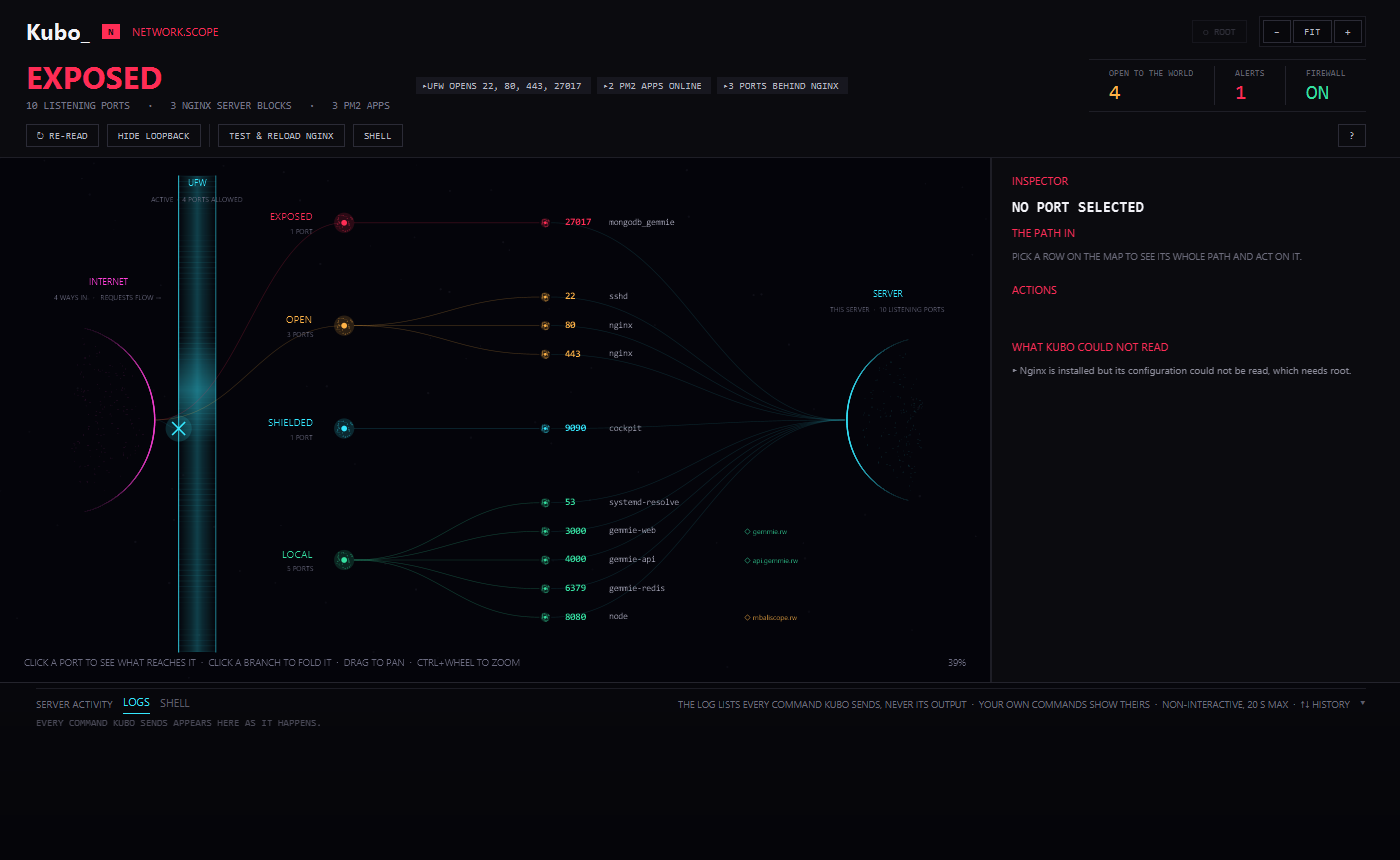
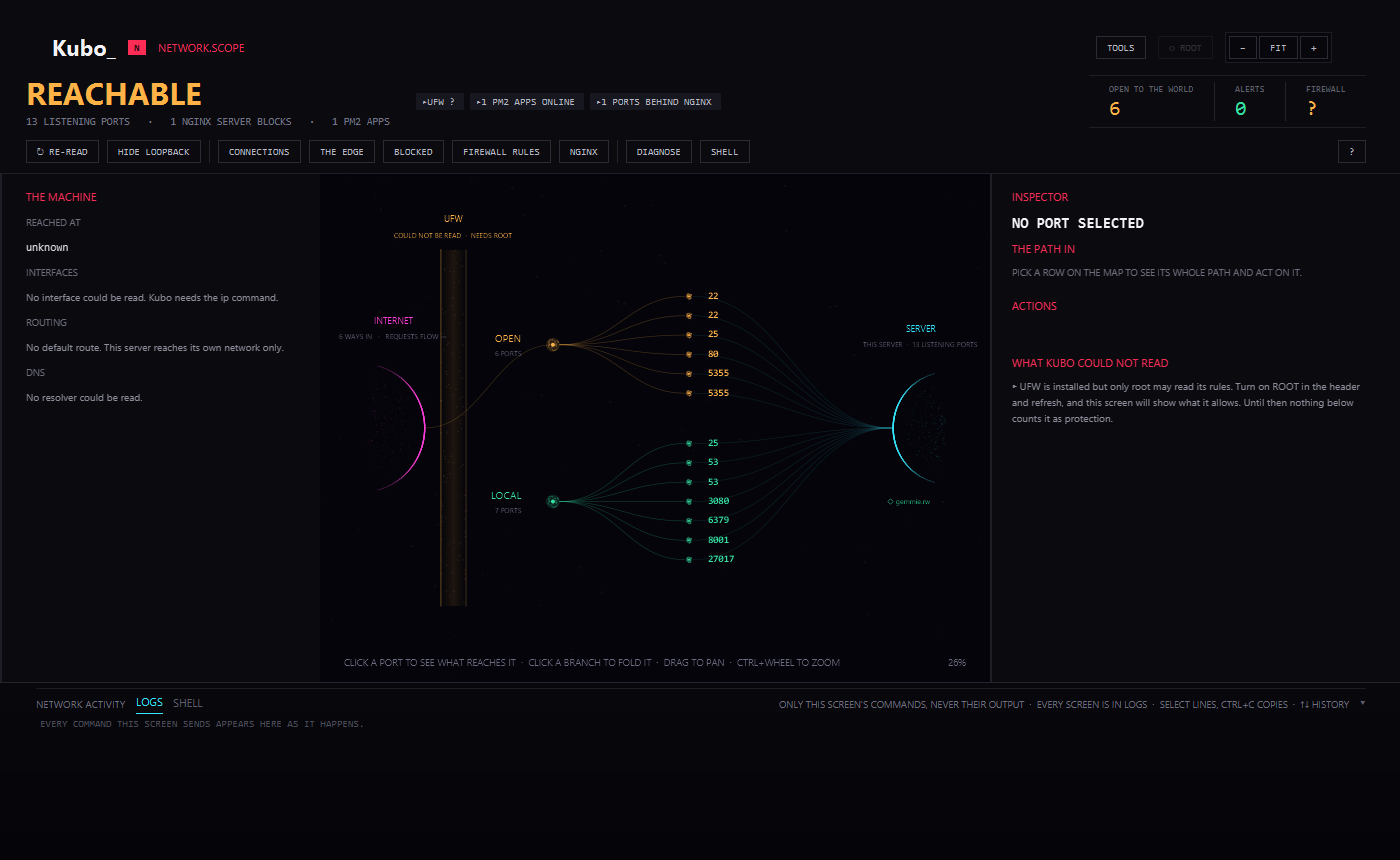
Nginx, the firewall, and everything the server has shut out

diff --git a/README.md b/README.md
@@ -53,6 +53,40 @@ Ports branch off by how far they can truly be reached — exposed, open, shielde
 so an open database screams and a loopback-only port stays quiet. Reads whichever firewall you run:
 **UFW, firewalld, nftables or iptables**.
 
+**UFW is written as well as read.** The rules are grouped the way a person would say them, v4 and v6
+together. Open a port to one address rather than to everyone, close one, switch the whole firewall on
+or off. Removing a rule that would cut your own SSH session asks you to type the port first, and
+switching a firewall on that has nothing allowing SSH asks the same question UFW asks itself — the one
+a session with no terminal cannot answer.
+
+### Nginx — how a request actually gets there
+<img src="images/nginx.png" alt="Kubo — nginx" width="90%">
+
+Its own screen, not a panel. The sites on the left; for the one you pick, the path a request takes drawn
+as a chain that goes red at the step that breaks: the domain, the server block, the certificate, the
+rule, the port it ends on. Its access and error logs, the file it lives in, the upstream pool it
+forwards to and which members are answering.
+
+A new site is written from a form with presets for Node, a single-page app, static files or PHP. Every
+field is checked before anything is sent, the file is shown exactly as it will be written, and it goes
+out through a temporary file and a move.
+
+Serving the web with **Caddy, Apache, Traefik or HAProxy** instead? Kubo names what it finds, says where
+its configuration lives and gives you the command to check it, rather than reporting that there is no
+Nginx — which reads as no web server at all.
+
+### Blocked — everything the server has shut out
+<img src="images/blocked.png" alt="Kubo — blocked addresses" width="90%">
+
+Two hundred addresses each banned once is a machine doing its job. Five banned eleven times each is
+somebody who has decided to get in, and the two look identical from a number.
+
+One row per address, sorted by which of them keep coming back, with when, how often, how long is left
+and who owns it. fail2ban's client names what is banned right now; its database knows the dates and the
+counts. Firewall rules are in the same list, marked as what they are: a ban lets go by itself, a rule
+stays until somebody removes it. The whole journal downloads as JSON — addresses and counts only, never
+a log line.
+
 ### Services — is it running, and will it come back
 <img src="images/services.png" alt="Kubo — services" width="90%">
 
@@ -79,7 +113,8 @@ never reach it again.
 | ![Scope](images/scope-busy.png) | **Scope** — the machine itself: OS, kernel, CPU, RAM, drawn as a spinning particle sphere with memory, swap, load and steal around it. |
 | ![Docker](images/docker.png) | **Docker** — containers, state, CPU/memory, ports and volumes; start/stop/restart, logs, a shell inside, and a read-only browse of the container's files. |
 | ![Redis](images/redis.png) | **Redis** — a stack of lit slabs, one per type, with full key CRUD, JSON edit, memory profiling, SLOWLOG and a live CLI. Never runs `KEYS *`. |
-| ![Packages](images/packages-open.png) | **Packages** — everything apt/dpkg report as a branching tree: what's for the system, what you asked for, what's waiting. Install and upgrade, simulated first. |
+| ![Packages](images/packages-open.png) | **Packages** — everything apt/dpkg report as a branching tree: what's for the system, what you asked for, what's waiting. Upgrades are watched as they happen, simulated first, and what a removal would take with it is said before you confirm. The repositories a machine fetches from, and the signing keys behind them, are on their own screen. |
+| ![Restart](images/restart.png) | **What is still running on old libraries** — upgrading a library writes a new file; anything already running keeps using the old one until it is restarted. So a server can be fully patched on disk and still be serving through the flaw the patch closed. Kubo lists which services those are, with a button each, and keeps apart the two or three the machine is standing on. |
 
 And a connection screen that reads the handshake as a fall of ones and zeros:
 
